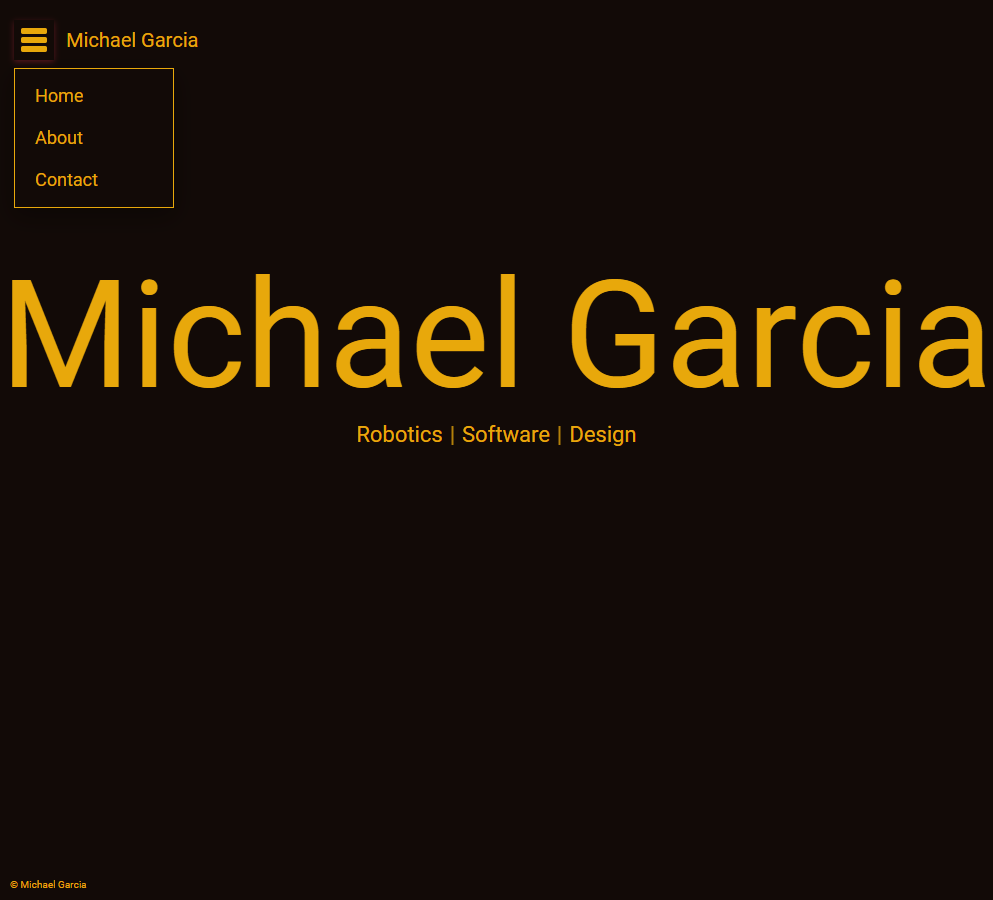
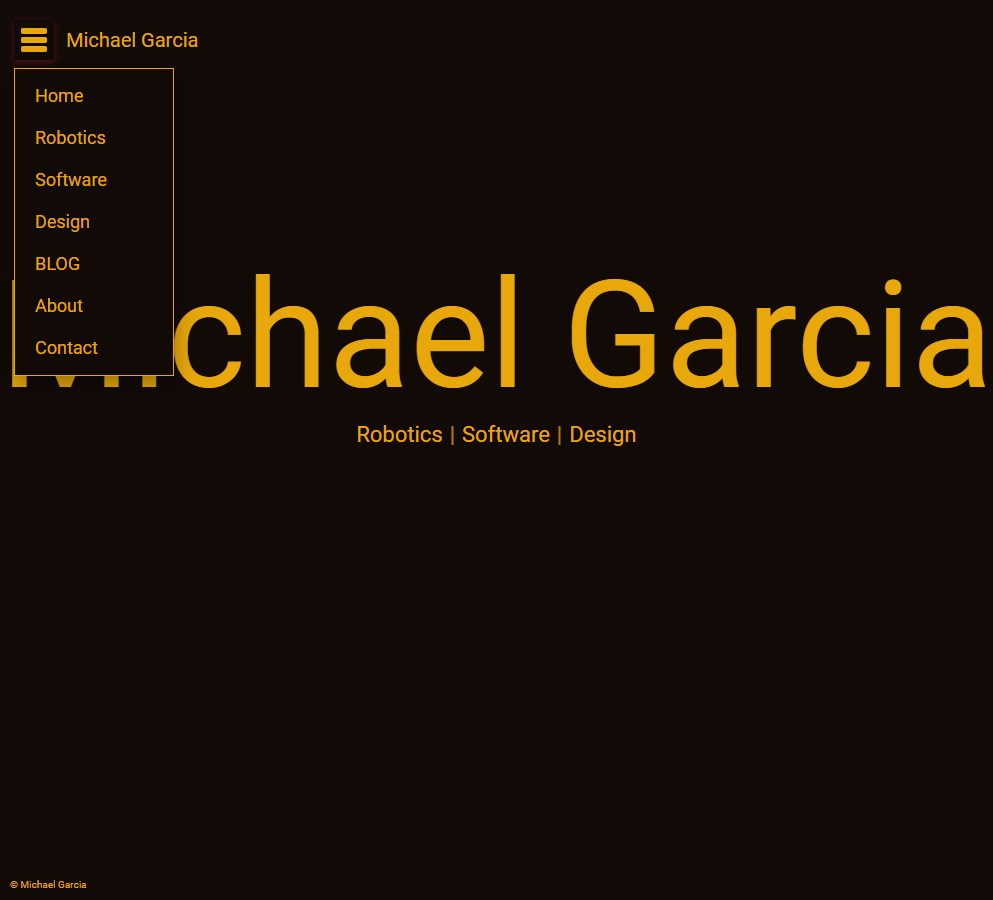
Updated menu button to include dsicipline and blog page links  On branch master  Changes to be committed: 	modified:   DEVNOTES.md 	modified:   TEST_LOG.md 	modified:   docs/verification/navigation-desktop.png 	modified:   docs/verification/navigation-narrow.png 	modified:   docs/verification/naviga

Changed region(s): [[0.0, 0.1867, 0.1873, 0.4356], [0.0312, 0.1244, 0.0937, 0.1556]]

diff --git a/src/specs.ts b/src/specs.ts
@@ -1,3 +1,9 @@
+/**
+ * File: src/specs.ts — load YAML specifications for the existing page renderer.
+ * Owner: Michael Garcia; contributor: Codex. Contact: michael@mandedesign.studio.
+ * License: Pending confirmation. Related decision: DEV-2026-10-23-001.
+ * Constraint: Page keys match the hash router and global page registry.
+ */
 import yaml from 'js-yaml';
 import mainRaw from '../specs/main.yaml?raw';
 import homepageRaw from '../specs/homepage.yaml?raw';
@@ -6,6 +12,7 @@ import softwareRaw from '../specs/software_projects.yaml?raw';
 import designRaw from '../specs/design_projects.yaml?raw';
 import aboutRaw from '../specs/about.yaml?raw';
 import contactRaw from '../specs/contact.yaml?raw';
+import blogRaw from '../specs/blog.yaml?raw';
 import type { Dict, SiteSpec } from './types';
 
 const parse = (source: string) => yaml.load(source) as Dict;
@@ -19,4 +26,5 @@ export const pageSpecs: Dict = {
   design_projects: parse(designRaw).design_projects,
   about: parse(aboutRaw).about,
   contact: parse(contactRaw).contact,
+  blog: parse(blogRaw).blog,
 };

diff --git a/TEST_LOG.md b/TEST_LOG.md
@@ -820,3 +820,115 @@ TEST-2026-10-16-001; TEST-2026-10-15-012.
 #### Disposition
 
 Refactor verified; existing browser coverage retained and cleanup paths exercised.
+
+### TEST-2026-10-23-001 — Expanded utility navigation static validation
+
+**Date:** 2026-10-23  
+**Time:** 09:41 America/New_York  
+**Tester:** Codex /root  
+**Level:** T0  
+**Result:** PASS
+
+#### Scope
+
+Blog registration and expanded menu regression.
+
+#### Files Under Validation
+
+specs/main.yaml; specs/blog.yaml; src/specs.ts; scripts/check-navigation.cjs.
+
+#### Objective
+
+Verify compilation, bundling, and script syntax.
+
+#### Preconditions
+
+Existing dependencies; Windows; Vite 7.3.6.
+
+#### Procedure
+
+Run npm run build and node --check scripts/check-navigation.cjs; await completion.
+
+#### Expected Result
+
+Both commands succeed.
+
+#### Actual Result
+
+TypeScript, Vite, and syntax validation succeeded. Vite transformed 15 modules in 827ms.
+
+#### Evidence
+
+Build generated dist/assets/index-BkR0x38h.js with the blog specification.
+
+#### Failures / Observations
+
+None. Runtime validation follows.
+
+#### Related DEVNOTES
+
+DEV-2026-10-23-001.
+
+#### Related Tests
+
+TEST-2026-10-16-001.
+
+#### Disposition
+
+Proceed to browser verification.
+
+### TEST-2026-10-23-002 — Seven-destination navigation regression
+
+**Date:** 2026-10-23  
+**Time:** 09:41 America/New_York  
+**Tester:** Codex /root  
+**Level:** T3  
+**Result:** PASS
+
+#### Scope
+
+T1 expanded dropdown, T2 destination integration, and T3 existing navigation/layout behavior.
+
+#### Files Under Validation
+
+specs/main.yaml; specs/blog.yaml; src/specs.ts; scripts/check-navigation.cjs.
+
+#### Objective
+
+Confirm every utility link reaches its intended page with the shared layout intact.
+
+#### Preconditions
+
+Successful build; installed Chrome and bundled Playwright; permitted local browser/server execution.
+
+#### Procedure
+
+Run node scripts/check-navigation.cjs C:/Users/micha/.cache/codex-runtimes/codex-primary-runtime/dependencies/node/node_modules/playwright. Follow all seven menu links and assert headings, then exercise existing keyboard, layout, title, history, and engagement checks.
+
+#### Expected Result
+
+Home, Robotics, Software, Design, BLOG, About, and Contact navigate correctly; expanded menu remains keyboard-operable; existing behavior passes.
+
+#### Actual Result
+
+All seven destinations and headings passed. Seven pages retained menu position and copyright at both 1440px and 390px widths. Keyboard interactions, title layout, history/refresh, and session-only engagement passed with no page errors.
+
+#### Evidence
+
+docs/verification/navigation-report.json and updated screenshots; browser regression console output.
+
+#### Failures / Observations
+
+None. BLOG is a placeholder page; article publishing was not introduced.
+
+#### Related DEVNOTES
+
+DEV-2026-10-23-001.
+
+#### Related Tests
+
+TEST-2026-10-23-001; TEST-2026-10-16-002.
+
+#### Disposition
+
+Requested menu links verified.

diff --git a/DEVNOTES.md b/DEVNOTES.md
@@ -330,3 +330,57 @@ None.
 ---
 
 ---
+
+### DEV-2026-10-23-001 — Add discipline and BLOG utility links
+
+**Date:** 2026-10-23  
+**Time:** 09:41 America/New_York  
+**Engineer:** Codex /root  
+**Status:** IMPLEMENTED  
+**Type:** DECISION
+
+#### Problem
+
+The user requested Robotics, Software, Design, and BLOG links in utility_navigation.
+
+#### Context and Constraints
+
+The discipline routes exist; BLOG had no page or loader registration. Keep the existing hash router, shared header/footer, and menu styling.
+
+#### Solutions Considered
+
+Add a nonfunctional BLOG link or register a minimal simple page. Selected a real placeholder destination without implementing the separately proposed blogging platform.
+
+#### Trade-offs
+
+A minimal BLOG page supplies working navigation now; article publishing remains future work. New items follow Home and precede About/Contact.
+
+#### Final Outcome
+
+Menu order is Home, Robotics, Software, Design, BLOG, About, Contact. BLOG routes to #/blog and displays a posts-coming-soon message. Added its YAML specification, global registry entry, and loader import. Extended existing regression checks for all seven destinations and their headings.
+
+#### Implementation Impact
+
+specs/main.yaml; specs/blog.yaml; src/specs.ts; scripts/check-navigation.cjs; regenerated verification artifacts.
+
+#### Verification Required
+
+T0 compilation/bundle and script syntax; T1 menu interactions, T2 each destination, and T3 shared layout and existing regression. See TEST-2026-10-23-001 and TEST-2026-10-23-002.
+
+#### Related Records
+
+- DEVNOTES: DEV-2026-10-16-001; DEV-2026-10-15-001
+- Tests: TEST-2026-10-23-001; TEST-2026-10-23-002
+- Source: specs/main.yaml utility_navigation; specs/blog.yaml; src/specs.ts
+
+#### Next Steps
+
+None for this request.
+
+#### Deferred Decisions
+
+Blog article publishing remains part of the earlier architecture proposal.
+
+---
+
+---
